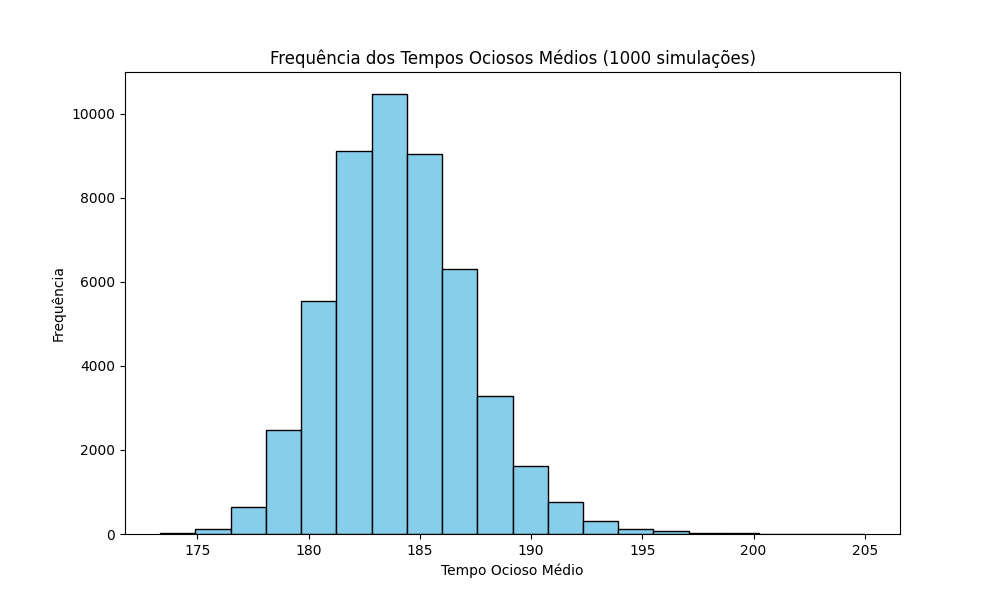
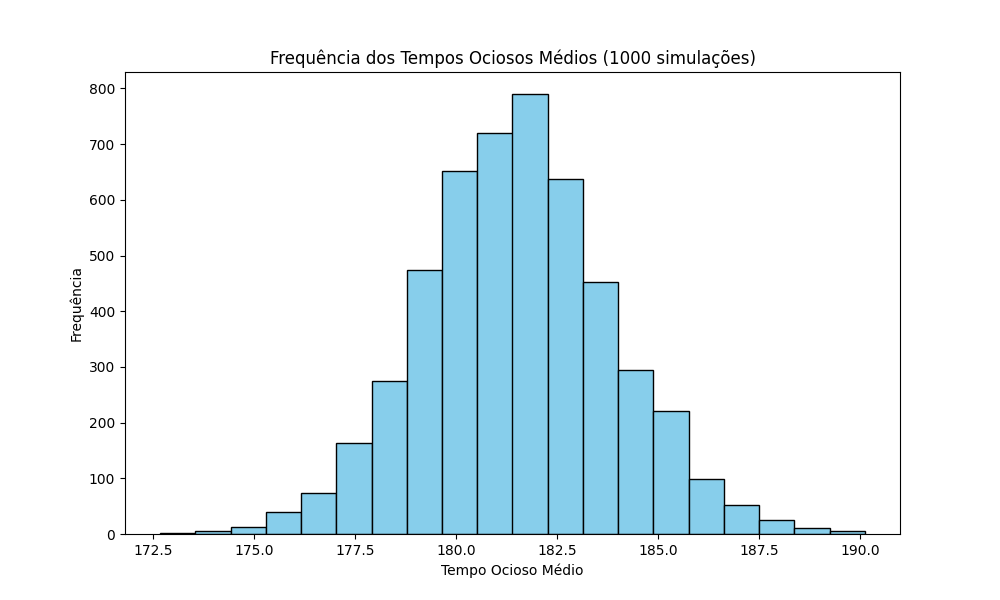
change to binomial

diff --git a/main.py b/main.py
@@ -3,6 +3,8 @@ from tqdm import tqdm
 import statistics
 
 import matplotlib.pyplot as plt
+import numpy as np
+import scipy.stats as stats
 
 from Simulation import Simulation
 
@@ -12,6 +14,18 @@ def load_config(filename: str) -> dict:
     with open(filename, 'r') as file:
         return json.load(file)
 
+def calcular_intervalo_confianca(media: float, desvio_padrao: float, tamanho_amostra: int, confianca: float = 0.95) -> tuple:
+    # Calcular o erro padrão
+    erro_padrao = desvio_padrao / np.sqrt(tamanho_amostra)
+    
+    # Obter o valor Z para o nível de confiança desejado
+    z = stats.norm.ppf((1 + confianca) / 2)
+    
+    # Calcular o intervalo de confiança
+    limite_inferior = media - z * erro_padrao
+    limite_superior = media + z * erro_padrao
+    
+    return limite_inferior, limite_superior
 
 def run_simulations_and_plot(num_simulations: int, config: dict) -> None:
     idle_times = []
@@ -29,6 +43,9 @@ def run_simulations_and_plot(num_simulations: int, config: dict) -> None:
             idle_times.append(sim.get_average_idle_time())
             pbar.update(1)
     print(statistics.mean(idle_times))
+    print(statistics.stdev(idle_times))
+    intervalo_confianca = calcular_intervalo_confianca(statistics.mean(idle_times), statistics.stdev(idle_times), num_simulations)
+    print(intervalo_confianca)
     plt.figure(figsize=(10, 6))
     plt.hist(idle_times, bins=20, color='skyblue', edgecolor='black')  # 'bins' define o número de intervalos no histograma
     plt.xlabel("Tempo Ocioso Médio")
@@ -36,7 +53,7 @@ def run_simulations_and_plot(num_simulations: int, config: dict) -> None:
     plt.title("Frequência dos Tempos Ociosos Médios (1000 simulações)")
 
     # Salvar a imagem
-    plt.savefig("idle_times_priority.png")  # Salva a imagem como "idle_times_histogram.png" no diretório atual
+    plt.savefig(f"idle_times_"+ config["scheduling_algorithm"] + ".png")  # Salva a imagem como "idle_times_histogram.png" no diretório atual
 
     plt.show()  # Mostra o gráfico na tela (opcional)
 
@@ -45,7 +62,7 @@ if __name__ == '__main__':
     config = load_config('config.json')
 
     # Definir o número de simulações
-    num_simulations = 50000
+    num_simulations = 5000
 
     # Rodar as simulações e gerar o gráfico
     run_simulations_and_plot(num_simulations, config)

diff --git a/Simulation.py b/Simulation.py
@@ -27,9 +27,9 @@ class Simulation:
         process_id = 0
         while self.current_time < total_time:
             # Gerar novos processos baseados na distribuição de Poisson
-            if np.random.binomial(n=1, p=self.arrival_rate):
-                n_process = random.randint(1, 5) 
-                for i in range(n_process):
+            n = np.random.binomial(n=10, p=self.arrival_rate)
+            if n > 0:
+                for i in range(n):
                     self.create_process(process_id)
                     process_id += 1
             
